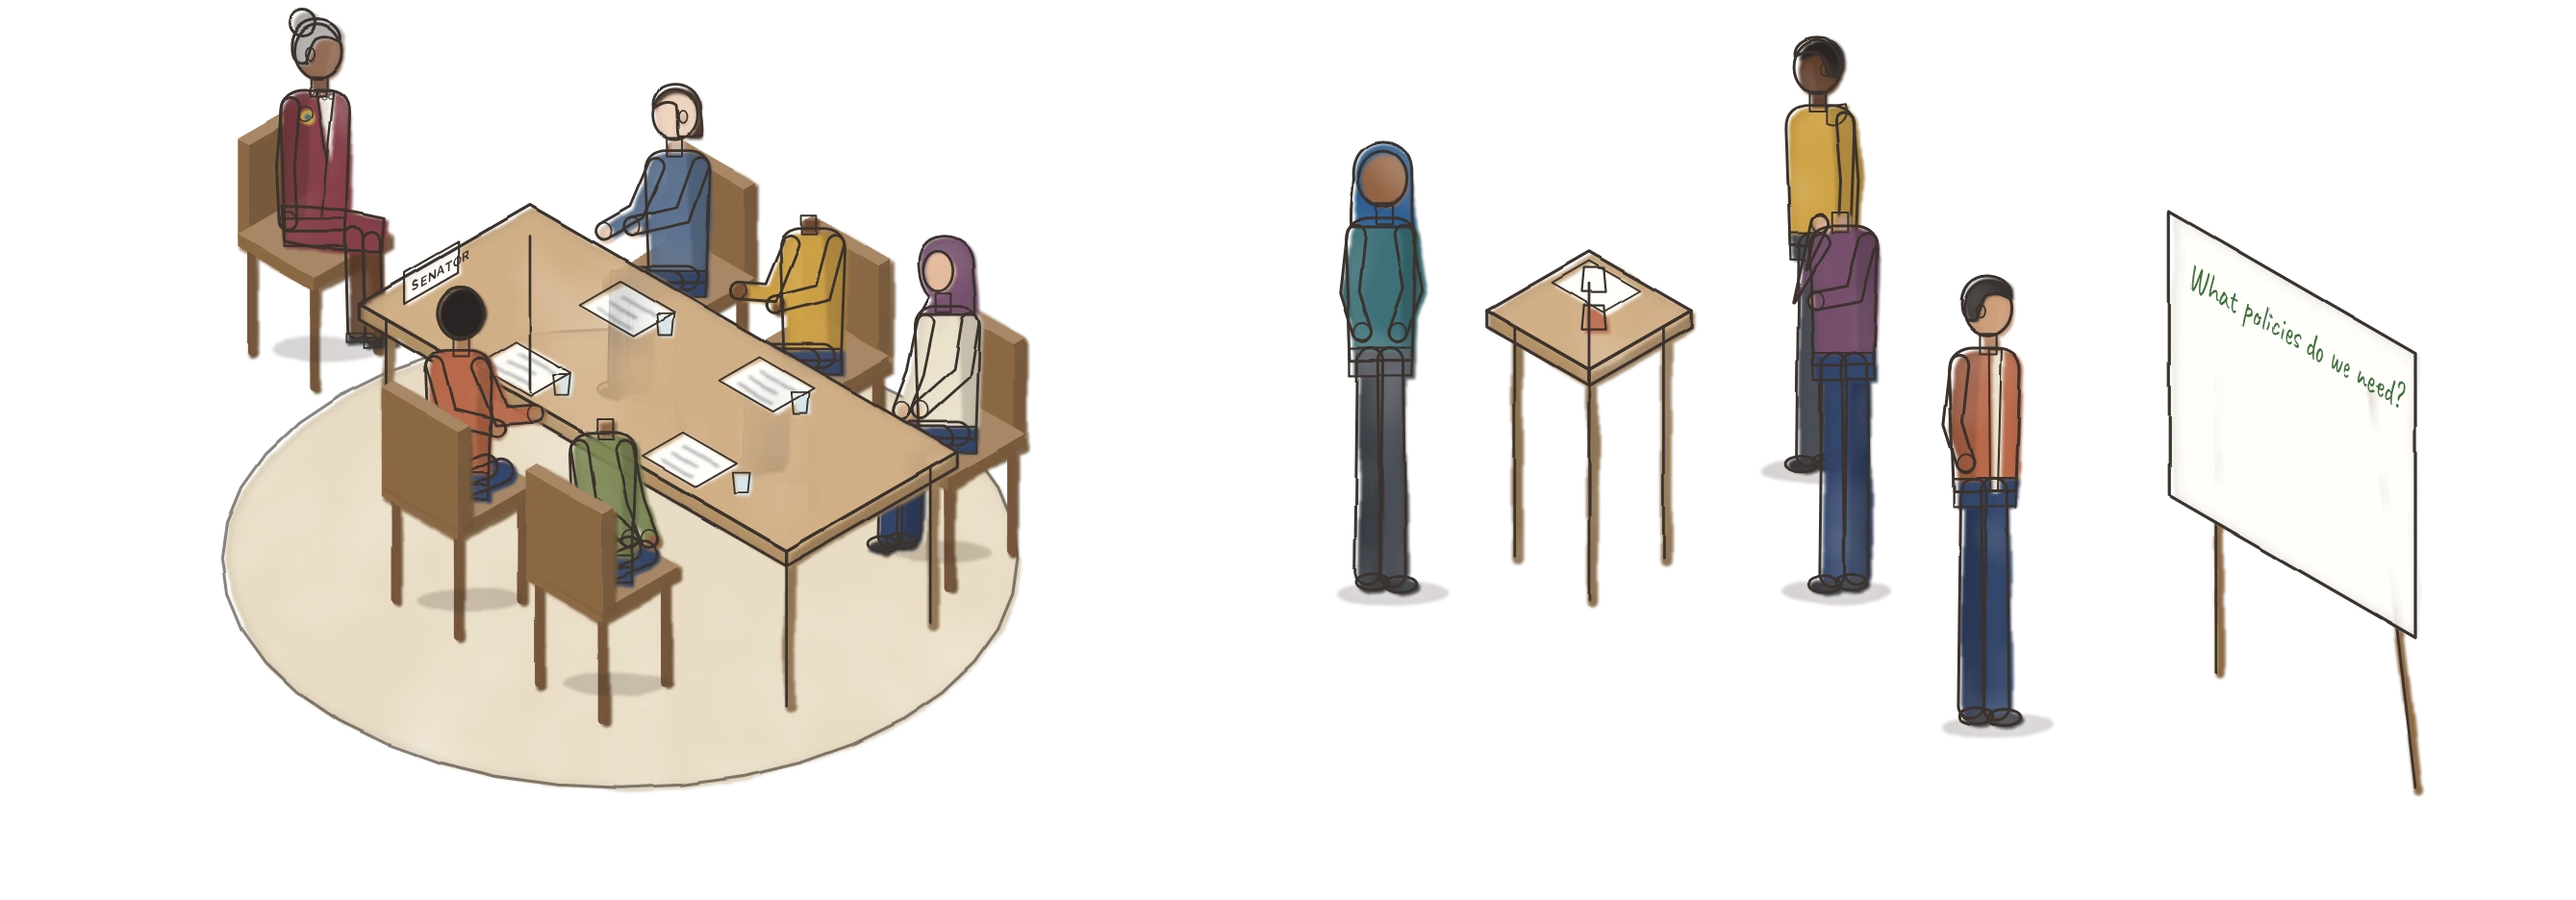
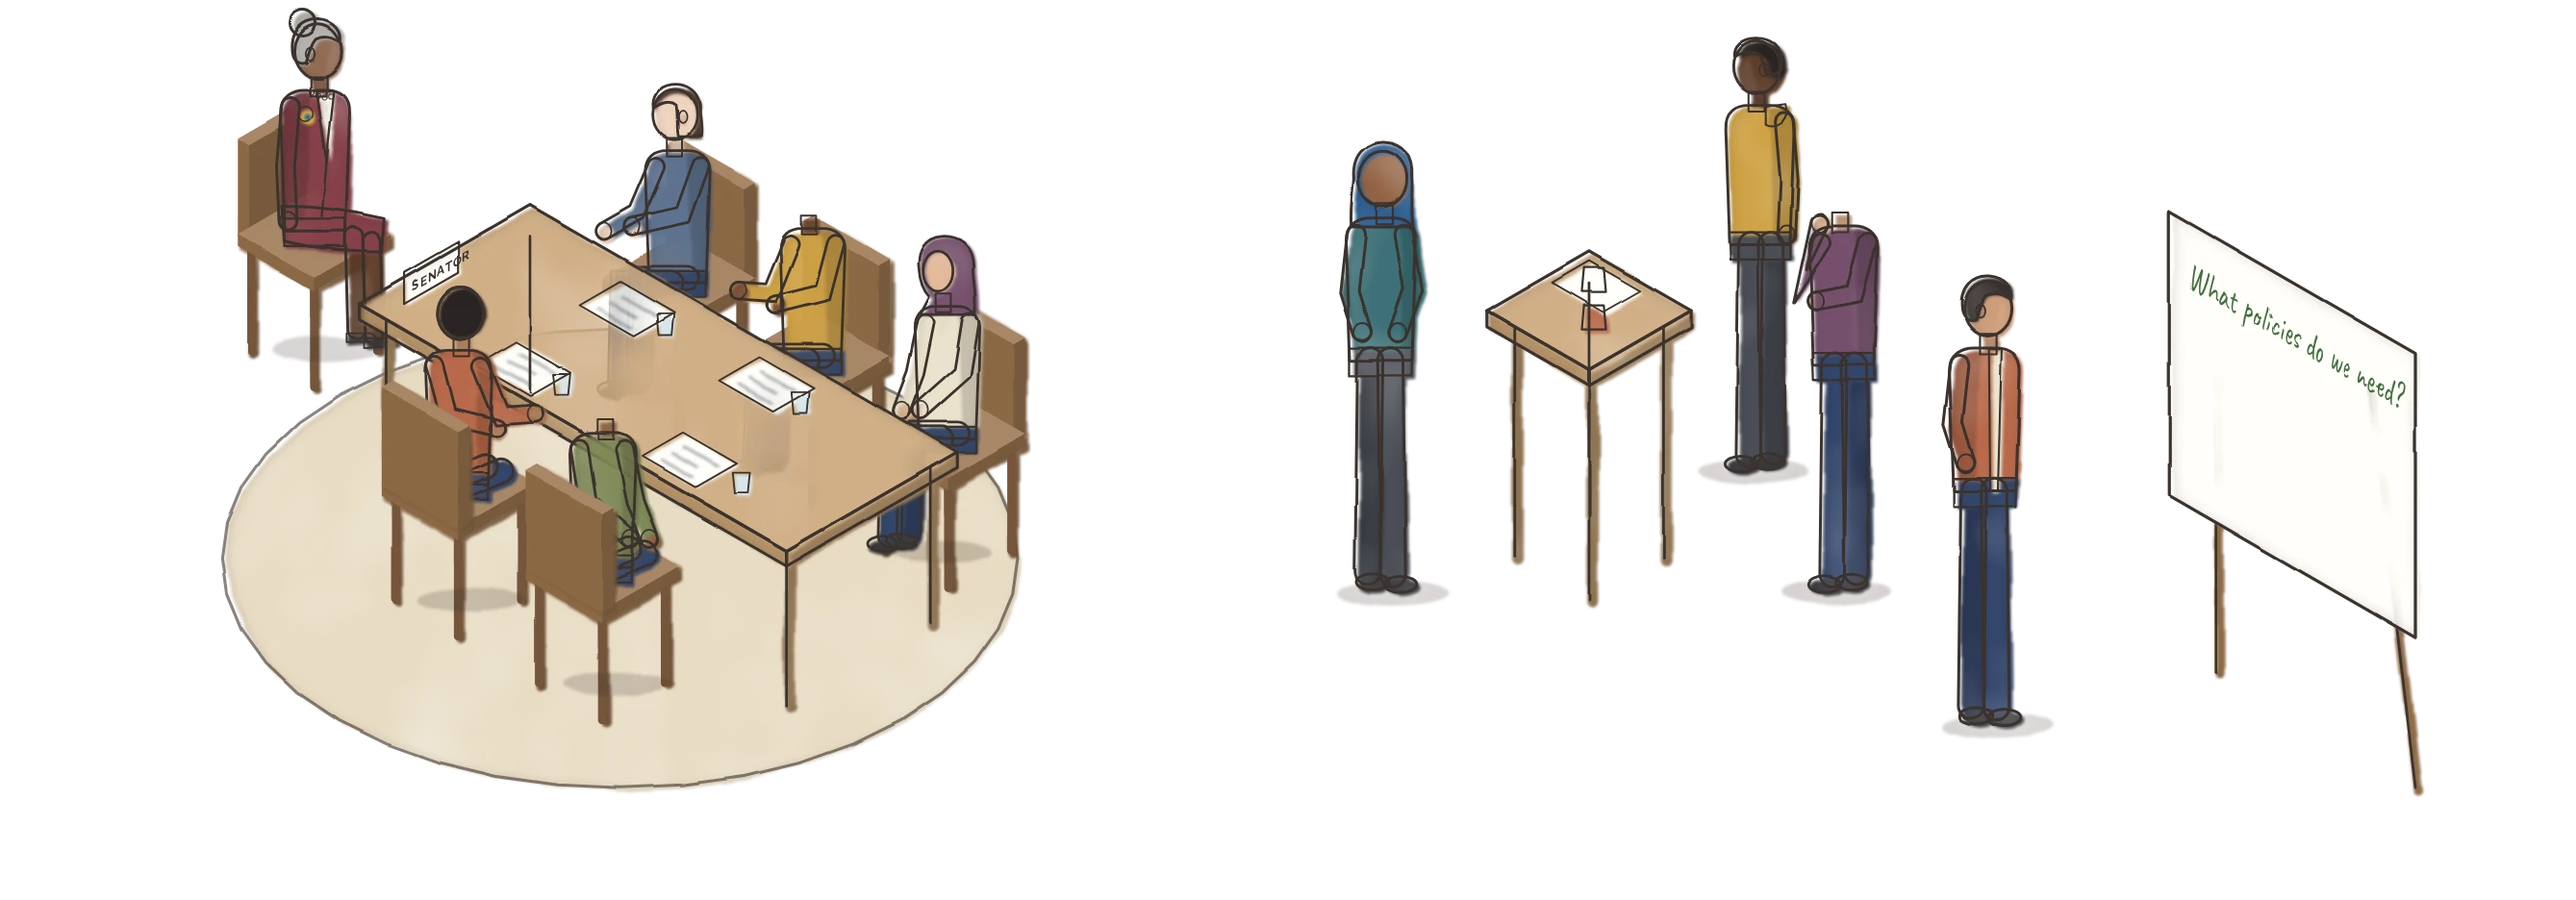
Student experience: steady moving parts, longer captions
Moving parts now turn about explicit pivots (arms at the shoulder,
heads at the neck) instead of percentage origins, which browsers place
differently and which pulled arms and heads off their bodies. The
yellow-shirted student in the drafting scene steps left so the head in
front of him reads clearly. Captions stay at full strength until the
camera is most of the way to the next stop, then cross-fade.

Claude-Session: https://claude.ai/code/session_01SMQjHjWtFbAc3m3c4G3GsF

Changed region(s): [[0.6509, 0.031, 0.7438, 0.5577]]

diff --git a/studentexperience/index.html b/studentexperience/index.html
@@ -83,20 +83,20 @@ body { margin: 0; background: var(--paper); color: var(--ink); font-family: var(
 .progress i.on { background: var(--teal); transform: scale(1.3); }
 
 /* Quiet loops, running only in the wash in focus */
-.scene svg [class*="a-"] { transform-box: fill-box; }
-.scene.live .a-gesture { animation: gesture 2.8s ease-in-out infinite; transform-origin: 0% 0%; }
+.scene svg [class*="a-"] { transform-box: view-box; transform-origin: 0 0; }
+.scene.live .a-gesture { animation: gesture 2.8s ease-in-out infinite; }
 .scene.live .a-gesture.d2 { animation-delay: -1.3s; }
-.scene.live .a-nod { animation: nod 3.4s ease-in-out infinite; transform-origin: 50% 100%; }
+.scene.live .a-nod { animation: nod 3.4s ease-in-out infinite; }
 .scene.live .a-nod.d2 { animation-delay: -1.7s; }
-.scene.live .a-type { animation: typing 0.5s ease-in-out infinite alternate; transform-origin: 0% 0%; }
-.scene.live .a-hand { animation: handup 6s ease-in-out infinite; transform-origin: 0% 0%; }
+.scene.live .a-type { animation: typing 0.5s ease-in-out infinite alternate; }
+.scene.live .a-hand { animation: handup 6s ease-in-out infinite; }
 .scene.live .a-steam { animation: steam 3.2s ease-in-out infinite; }
 .scene.live .a-steam.d2 { animation-delay: -1.6s; }
 .scene.live .a-mote { animation: mote 7s linear infinite; }
 .scene.live .a-mote.d2 { animation-delay: -2.4s; }
 .scene.live .a-mote.d3 { animation-delay: -4.8s; }
-.scene.live .a-page { animation: page 5s ease-in-out infinite; transform-origin: 0% 50%; }
-.scene.live .a-grow { animation: grow 3.4s ease-in-out infinite; transform-origin: 50% 100%; }
+.scene.live .a-page { animation: page 5s ease-in-out infinite; }
+.scene.live .a-grow { animation: grow 3.4s ease-in-out infinite; }
 .scene.live .a-grow.d2 { animation-delay: -1.1s; }
 .scene.live .a-grow.d3 { animation-delay: -2.2s; }
 .scene.live .a-scroll { animation: scrollup 4s linear infinite; }
@@ -104,13 +104,13 @@ body { margin: 0; background: var(--paper); color: var(--ink); font-family: var(
 .scene.live .a-dot { animation: dot 1.2s ease-in-out infinite; }
 .scene.live .a-dot.d2 { animation-delay: 0.2s; }
 .scene.live .a-dot.d3 { animation-delay: 0.4s; }
-.scene.live .a-flag { animation: flag 1.6s ease-in-out infinite; transform-origin: 0% 100%; }
+.scene.live .a-flag { animation: flag 1.6s ease-in-out infinite; }
 .scene.live .a-note { animation: note 6s ease-in-out infinite; }
 .scene.live .a-leaf { animation: leaf 7s linear infinite; }
 .scene.live .a-leaf.d2 { animation-delay: -2.3s; }
 .scene.live .a-leaf.d3 { animation-delay: -4.6s; }
 .scene.live .a-bird { animation: bird 11s linear infinite; }
-.scene.live .a-wing { animation: wing 0.5s ease-in-out infinite alternate; transform-origin: 50% 100%; }
+.scene.live .a-wing { animation: wing 0.5s ease-in-out infinite alternate; }
 .scene.live .a-bob { animation: bob 0.9s ease-in-out infinite alternate; }
 .scene.live .a-bob.d2 { animation-delay: -0.45s; }
 .scene.live .a-draw { stroke-dasharray: 90; animation: draw 4.5s ease-in-out infinite; }
@@ -305,6 +305,9 @@ body { margin: 0; background: var(--paper); color: var(--ink); font-family: var(
   const washOnly = s => MODE === 'wash' ? s : '';
   const inkOnly = s => MODE === 'ink' ? s : '';
   const g = (s, attrs = '') => s ? `<g ${attrs}>${s}</g>` : '';
+  // A moving part turns about (x, y) in its own drawing units. Explicit pivots behave the same
+  // in every browser; Safari places percentage origins on SVG parts differently.
+  const pivot = (x, y, cls, s) => s ? `<g transform="translate(${f(x)} ${f(y)})"><g class="${cls}"><g transform="translate(${f(-x)} ${f(-y)})">${s}</g></g></g>` : '';
   function obj(fn) {
     const prev = MODE;
     MODE = 'wash'; const w = fn();
@@ -455,15 +458,15 @@ body { margin: 0; background: var(--paper); color: var(--ink); font-family: var(
         if (o.earrings) headInner += circ(-2.4, 5, 1.6, P.gold, { noInk: true });
       }
       let head = g(headInner, 'transform="translate(1 -164)"');
-      if (o.headClass) head = g(head, `class="${o.headClass}"`);
+      if (o.headClass) head = pivot(1, -154, o.headClass, head);
 
       const [nearPts, farPts] = o.armPts || ARMS[o.arms || 'down'];
       const armShape = (p, c) => limb(p, 7.2, c) + ell(p[p.length - 1][0], p[p.length - 1][1], 3.3, 3.8, view === 'back' ? skinDk : skin, { iw: 0.7 });
       const sleeve = o.sleeve || top;
       let farArm = armShape(farPts, shade(sleeve, -0.18));
       let nearArm = armShape(nearPts, sleeve);
-      if (o.armClass && view !== 'back') nearArm = g(nearArm, `class="${o.armClass}"`);
-      if (o.farClass && view !== 'back') farArm = g(farArm, `class="${o.farClass}"`);
+      if (o.armClass && view !== 'back') nearArm = pivot(nearPts[0][0], nearPts[0][1], o.armClass, nearArm);
+      if (o.farClass && view !== 'back') farArm = pivot(farPts[0][0], farPts[0][1], o.farClass, farArm);
       const upper = view === 'back' ? farArm + nearArm + neck + body + head : farArm + neck + body + head + nearArm;
       const leanT = o.lean ? ` rotate(${o.lean} 0 -92)` : '';
       const shadow = washOnly(`<ellipse cx="4" cy="-1" rx="22" ry="5" fill="rgba(60,50,40,0.13)"/>`);
@@ -514,7 +517,7 @@ body { margin: 0; background: var(--paper); color: var(--ink); font-family: var(
     s += `<g filter="url(#halo)"><ellipse cx="${f(lx)}" cy="${f(ly - 115)}" rx="60" ry="42" fill="#FFF0BC" opacity=".7"/></g>`;
     s += obj(() => ell(lx, ly, 12, 5, P.charcoal) + stick([[lx, ly], [lx, ly - 150]], 2.6, P.charcoal) + path(`M${f(lx - 17)},${f(ly - 140)} L${f(lx + 17)},${f(ly - 140)} L${f(lx + 10)},${f(ly - 168)} L${f(lx - 10)},${f(ly - 168)}Z`, P.cream) + dust(lx - 30, ly - 110));
     s += obj(() => box(-20, 0, 0, 62, 66, 34, P.tealDk) + box(-28, 0, 0, 12, 66, 82, P.tealDk) + box(-20, -6, 0, 62, 10, 56, shade(P.tealDk, 0.05)));
-    s += at(10, 36, { ...ME, pose: 'sit', arms: 'book', headClass: 'a-nod', held: () => openBook(22, -118, 13, P.blue) + g(poly([[22, -118], [33, -121.5], [33, -111], [22, -108]], P.paper, { iw: 0.7 }), 'class="a-page"'), s: 0.92 });
+    s += at(10, 36, { ...ME, pose: 'sit', arms: 'book', headClass: 'a-nod', held: () => openBook(22, -118, 13, P.blue) + pivot(22, -113, 'a-page', poly([[22, -118], [33, -121.5], [33, -111], [22, -108]], P.paper, { iw: 0.7 })), s: 0.92 });
     s += obj(() => box(-20, 62, 0, 62, 12, 56, shade(P.tealDk, 0.08)));
     s += obj(() => {
       let t = table(80, 40, 40, 40, 52, P.wood);
@@ -538,7 +541,7 @@ body { margin: 0; background: var(--paper); color: var(--ink); font-family: var(
       { a: -135, prof: true, p: { skin: SKIN[5], hair: 'afro', hairColor: HAIR.black, top: P.plum, outfit: 'blazer', shirt: P.cream, bottom: P.charcoal, glasses: true, earrings: true, arms: 'gesture', armClass: 'a-gesture' }, view: 'front', flip: false, face: '+x' },
       { a: -90, p: { skin: SKIN[0], hair: 'bob', hairColor: HAIR.blond, top: P.mustard, bottom: P.navy, arms: 'book', headClass: 'a-nod', held: () => openBook(22, -118, 11, P.blue) }, view: 'front', flip: true, face: '+y' },
       { a: -45, p: { skin: SKIN[3], hair: 'fade', hairColor: HAIR.black, top: P.slate, outfit: 'hoodie', bottom: P.charcoal, arms: 'chin' }, view: 'front', flip: true, face: '+y' },
-      { a: 180, p: { skin: SKIN[1], hair: 'hijab', hairColor: P.tealDk, top: P.cream, bottom: P.navy, arms: 'book', headClass: 'a-nod d2', held: () => openBook(22, -118, 12, P.burgundy) + g(poly([[22, -118], [34, -121.6], [34, -110], [22, -107]], P.paper, { iw: 0.7 }), 'class="a-page"') + g(pen([[24, -108], [31, -121]], 1.6, '#2E3036'), 'class="a-write"') }, view: 'front', flip: false, face: '+x' },
+      { a: 180, p: { skin: SKIN[1], hair: 'hijab', hairColor: P.tealDk, top: P.cream, bottom: P.navy, arms: 'book', headClass: 'a-nod d2', held: () => openBook(22, -118, 12, P.burgundy) + pivot(22, -112.5, 'a-page', poly([[22, -118], [34, -121.6], [34, -110], [22, -107]], P.paper, { iw: 0.7 })) + g(pen([[24, -108], [31, -121]], 1.6, '#2E3036'), 'class="a-write"') }, view: 'front', flip: false, face: '+x' },
       { a: 0, p: { skin: SKIN[4], hair: 'braids', hairColor: HAIR.black, top: P.olive, bottom: P.denim, arms: 'gesture', armClass: 'a-gesture d2' }, view: 'back', flip: true, face: '-x' },
       { a: 135, p: { ...ME, arms: 'lap', headClass: 'a-nod d2' }, view: 'back', flip: false, face: '-y' },
       { a: 90, p: { skin: SKIN[0], hair: 'curly', hairColor: HAIR.auburn, top: P.navy, bottom: P.charcoal, arms: 'pocket' }, view: 'back', flip: false, face: '-y' },
@@ -556,7 +559,7 @@ body { margin: 0; background: var(--paper); color: var(--ink); font-family: var(
     GY = -50;
     let s = obj(() => table(-90, -70, 170, 64, 74, P.wood) + box(-46, -50, 74, 86, 8, 3, P.charcoal) + box(-8, -52, 77, 8, 6, 26, P.charcoal) + box(-60, -50, 100, 116, 5, 70, '#4A4E57'));
     s += obj(() => face([[-56, -45, 104], [52, -45, 104], [52, -45, 166], [-56, -45, 166]], P.screen, { iw: 0.8 })
-      + onLeftFace(-50, -45, 162, washOnly([0, 1, 2, 3, 4].map(i => { const h = [16, 26, 20, 38, 32][i]; return `<rect x="${6 + i * 14}" y="${50 - h}" width="9" height="${h}" fill="${i % 2 ? P.gold : P.teal}" opacity=".85" class="a-grow d${(i % 3) + 1}"/>`; }).join('')
+      + onLeftFace(-50, -45, 162, washOnly([0, 1, 2, 3, 4].map(i => { const h = [16, 26, 20, 38, 32][i]; return pivot(10.5 + i * 14, 50, `a-grow d${(i % 3) + 1}`, `<rect x="${6 + i * 14}" y="${50 - h}" width="9" height="${h}" fill="${i % 2 ? P.gold : P.teal}" opacity=".85"/>`); }).join('')
         + `<svg x="84" y="6" width="22" height="40" overflow="hidden"><g class="a-scroll">${[0, 6, 12, 18, 24, 30, 36, 42].map((y, i) => `<rect x="0" y="${y}" width="${[14, 10, 12, 8, 14, 10, 12, 9][i]}" height="2" fill="#9AA3AD"/>`).join('')}</g></svg>`
         + `<rect x="96" y="44" width="2" height="6" fill="#2B323C" class="a-blink"/>`)
         + inkOnly(`<polyline points="4,46 30,40 52,30 76,12" fill="none" stroke="${P.red}" stroke-width="1.6"/>`)));
@@ -590,20 +593,20 @@ body { margin: 0; background: var(--paper); color: var(--ink); font-family: var(
     s += obj(() => onLeftFace(-140, -126, 192, washOnly(
         '<rect x="0" y="0" width="212" height="9" fill="#262C37"/><circle cx="6" cy="4.5" r="1.6" fill="#E06C75"/><circle cx="11" cy="4.5" r="1.6" fill="#E5C07B"/><circle cx="16" cy="4.5" r="1.6" fill="#98C379"/><rect x="26" y="3" width="26" height="3" rx="1" fill="#5A6475"/>'
       + `<svg x="2" y="12" width="104" height="112" overflow="hidden"><g class="a-scroll">${CODE}</g></svg>`
-      + `<rect x="2" y="124" width="104" height="9" fill="#11151B"/><rect x="5" y="127" width="62" height="3" rx="1.5" fill="#2B323C"/><rect x="5" y="127" width="44" height="3" rx="1.5" fill="#98C379" class="a-grow"/><rect x="72" y="127" width="3" height="3" fill="#C3E88D" class="a-blink"/>`
+      + `<rect x="2" y="124" width="104" height="9" fill="#11151B"/><rect x="5" y="127" width="62" height="3" rx="1.5" fill="#2B323C"/>${pivot(27, 130, 'a-grow', '<rect x="5" y="127" width="44" height="3" rx="1.5" fill="#98C379"/>')}<rect x="72" y="127" width="3" height="3" fill="#C3E88D" class="a-blink"/>`
       + `<g transform="translate(110 14)">${plot()}</g>`)));
     // the evaluation board on the left, facing the students
     s += obj(() => box(-206, -112, 36, 6, 104, 110, '#E9E4D8')
       + onRightFace(-199.5, -16, 136, inkOnly(`<text x="2" y="4" font-family="Caveat, 'Bradley Hand', cursive" font-size="12" fill="${P.blue}" data-max="96">What remains unsolved?</text>`))
       + [[0, 0, P.mustard], [0, 30, '#E6A99A'], [28, 4, '#AFC7DA'], [28, 34, '#B8CDA0'], [56, 14, P.mustard]].map(([dy, dz, c]) => { const y0 = -40 - dy, z0 = 118 - dz; return poly([iso(-199.5, y0, z0), iso(-199.5, y0 - 22, z0), iso(-199.5, y0 - 22, z0 - 20), iso(-199.5, y0, z0 - 20)], c, { iw: 0.7 }); }).join('')
-      + g(poly([iso(-199.5, -96, 70), iso(-199.5, -74, 70), iso(-199.5, -74, 50), iso(-199.5, -96, 50)].map(p => p), '#E6A99A', { iw: 0.7 }), 'class="a-note"'));
+      + pivot(...iso(-199.5, -85, 60), 'a-note', poly([iso(-199.5, -96, 70), iso(-199.5, -74, 70), iso(-199.5, -74, 50), iso(-199.5, -96, 50)], '#E6A99A', { iw: 0.7 })));
     s += at(-158, -18, { skin: SKIN[0], hair: 'curly', hairColor: HAIR.auburn, top: P.plum, bottom: P.charcoal, view: 'back', flip: true, armPts: [[[9.5, -142], [20, -156], [30, -170]], [[-9.5, -142], [-12, -119], [-10, -97]]], s: 0.92 });
     // the table, two laptops facing the students
     s += obj(() => {
       let t = table(-96, -24, 150, 50, 68, P.wood);
       [-74, 6].forEach(x => { t += face([[x, -6, 68.5], [x + 32, -6, 68.5], [x + 32, 12, 68.5], [x, 12, 68.5]], '#666B74', { iw: 0.8 }) + face([[x, 12, 68.5], [x + 32, 12, 68.5], [x + 32, 12, 92], [x, 12, 92]], '#DCE6EA', { iw: 0.8 }); });
       t += onLeftFace(-70, 12, 89, washOnly('<rect x="2" y="3" width="16" height="2" fill="#8E969E"/><rect x="2" y="8" width="11" height="2" fill="#8E969E"/><rect x="2" y="13" width="14" height="2" fill="#8E969E"/>'))
-        + onLeftFace(10, 12, 89, washOnly(`<rect x="3" y="12" width="4" height="7" fill="${P.teal}" class="a-grow"/><rect x="9" y="8" width="4" height="11" fill="${P.gold}" class="a-grow d2"/><rect x="15" y="4" width="4" height="15" fill="${P.teal}" class="a-grow d3"/>`));
+        + onLeftFace(10, 12, 89, washOnly(pivot(5, 19, 'a-grow', `<rect x="3" y="12" width="4" height="7" fill="${P.teal}"/>`) + pivot(11, 19, 'a-grow d2', `<rect x="9" y="8" width="4" height="11" fill="${P.gold}"/>`) + pivot(17, 19, 'a-grow d3', `<rect x="15" y="4" width="4" height="15" fill="${P.teal}"/>`)));
       return t + mug(40, -16, 68, P.tealDk);
     });
     // the researcher at the screen: grey hair, glasses, a lanyard
@@ -647,7 +650,7 @@ body { margin: 0; background: var(--paper); color: var(--ink); font-family: var(
       + onLeftFace(98, -100, 166, hand(0, 18, 'What policies do we need?', 15, '#3F6F3E', 92)
         + inkOnly(`<path d="M0,40 q6,-4 12,0 t12,0 t12,-1 t12,1 t12,0 t12,0 t10,0" fill="none" stroke="${INK}" stroke-width="1.3" class="a-draw"/>`)));
     s += obj(() => table(-100, -40, 44, 44, 92, P.wood) + mug(-84, -26, 92, P.paper) + mug(-70, -12, 92, P.terracotta) + face([[-96, -36, 92.5], [-74, -36, 92.5], [-74, -20, 92.5], [-96, -20, 92.5]], P.paper, { iw: 0.7 }));
-    s += at(-60, -100, { skin: SKIN[5], hair: 'fade', hairColor: HAIR.black, top: P.mustard, outfit: 'hoodie', bottom: P.charcoal, view: 'front', flip: true, arms: 'gesture', armClass: 'a-gesture', s: 0.92 });
+    s += at(-73, -87, { skin: SKIN[5], hair: 'fade', hairColor: HAIR.black, top: P.mustard, outfit: 'hoodie', bottom: P.charcoal, view: 'front', flip: true, arms: 'gesture', armClass: 'a-gesture', s: 0.92 });
     s += at(-10, -60, { skin: SKIN[1], hair: 'long', hairColor: HAIR.brown, top: P.plum, bottom: P.navy, view: 'front', flip: true, arms: 'chin', headClass: 'a-nod', s: 0.92 });
     s += at(-110, 40, { skin: SKIN[3], hair: 'hijab', hairColor: P.blue, top: P.tealDk, bottom: P.charcoal, view: 'back', flip: false, arms: 'pocket', s: 0.94 });
     s += at(70, -40, { ...ME, view: 'front', flip: false, armClass: 'a-type', armPts: [[[9.5, -142], [28, -150], [44, -160]], [[-9.5, -142], [-12, -119], [-7, -103]]], s: 0.95 });
@@ -662,8 +665,8 @@ body { margin: 0; background: var(--paper); color: var(--ink); font-family: var(
     s += g(person({ skin: SKIN[4], hair: 'braids', hairColor: HAIR.black, top: P.mustard, outfit: 'cardigan', bottom: P.navy, x: -26, y: -14, pose: 'walk', arms: 'carry', held: () => closedBook(14, -122, P.burgundy, -70), s: 0.95 }), 'class="a-bob"');
     s += g(person({ ...ME, x: 28, y: -6, pose: 'walk', arms: 'gesture', armClass: 'a-gesture', s: 0.95 }), 'class="a-bob d2"');
     s += tree(270, -10, 120, 46, [P.leaf, P.leafDk], 13);
-    ['#C9963F', P.terracotta, P.leaf].forEach((c, i) => { s += `<g class="a-leaf d${i + 1}"><ellipse cx="${120 - i * 150}" cy="${-230 + i * 20}" rx="5" ry="3" fill="${c}"/></g>`; });
-    s += [[-60, -290], [-36, -302]].map(([x, y], i) => `<g class="a-bird" style="animation-delay:${-i * 0.6}s"><g class="a-wing"><path d="M${x},${y} q5,-5 10,0 q5,-5 10,0" fill="none" stroke="${INK}" stroke-width="1.2" stroke-linecap="round"/></g></g>`).join('');
+    ['#C9963F', P.terracotta, P.leaf].forEach((c, i) => { s += pivot(120 - i * 150, -230 + i * 20, `a-leaf d${i + 1}`, `<ellipse cx="${120 - i * 150}" cy="${-230 + i * 20}" rx="5" ry="3" fill="${c}"/>`); });
+    s += [[-60, -290], [-36, -302]].map(([x, y], i) => `<g class="a-bird" style="animation-delay:${-i * 0.6}s">${pivot(x + 10, y, 'a-wing', `<path d="M${x},${y} q5,-5 10,0 q5,-5 10,0" fill="none" stroke="${INK}" stroke-width="1.2" stroke-linecap="round"/>`)}</g>`).join('');
     return s;
   };
 
@@ -778,7 +781,7 @@ body { margin: 0; background: var(--paper); color: var(--ink); font-family: var(
      watercolor filters. Only the small moving parts stay live, in a thin SVG over each scene.
      Add ?live to the address to see everything drawn live (that is what the bake captures). */
   const LIVE = /[?&]live\b/.test(location.search);
-  const ART = '/studentexperience/art/', ART_V = '1';
+  const ART = '/studentexperience/art/', ART_V = '2';
   const BAND = 32;   // the timeline layers cover LINE_Y ± BAND
   const artImg = (name, alt = '', i = 1) => `<img src="${ART}${name}.webp?v=${ART_V}" alt="${alt}" decoding="async"${i ? '' : ' fetchpriority="high"'}>`;
   const bake = { washes: [], scenes: [], line: null };
@@ -941,7 +944,12 @@ body { margin: 0; background: var(--paper); color: var(--ink); font-family: var(
       // the caption follows the camera inside its own wash
       const cx = clamp(cam, lo, hi);
       capEls[j].style.transform = `translate3d(${f(cx * scale)}px,0,0) translateX(-50%)`;
-      set(capEls[j], 'opacity', String(q(clamp(1 - d * 3.2, 0, 1))));
+      // Captions stay at full strength until the camera is most of the way to the next stop,
+      // then cross-fade with the next caption around the midpoint
+      const nb = BLOBS[j + (cam < lo ? -1 : 1)];
+      const gap = !nb ? BW + BETWEEN : cam < lo ? lo - (wide ? nb.x : nb.vx[nb.vx.length - 1]) : (wide ? nb.x : nb.vx[0]) - hi;
+      const u = Math.max(0, lo - cam, cam - hi) / gap;
+      set(capEls[j], 'opacity', String(q(clamp((0.56 - u) / 0.16, 0, 1))));
     });
     if (nearest !== lastNearest) { lastNearest = nearest; dots.forEach((dEl, j) => dEl.classList.toggle('on', j === nearest)); }
 
